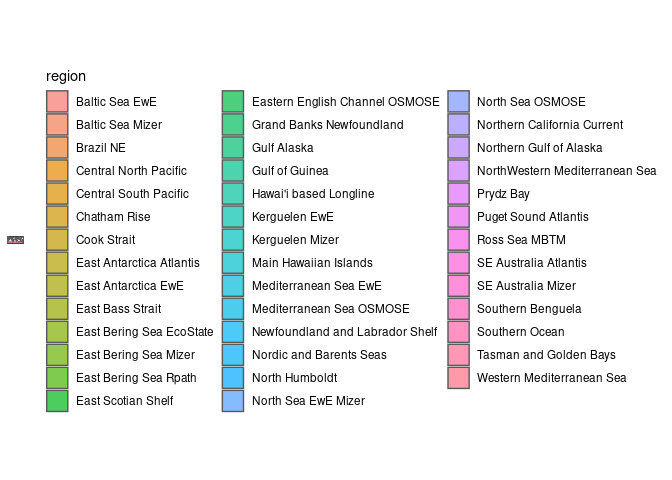
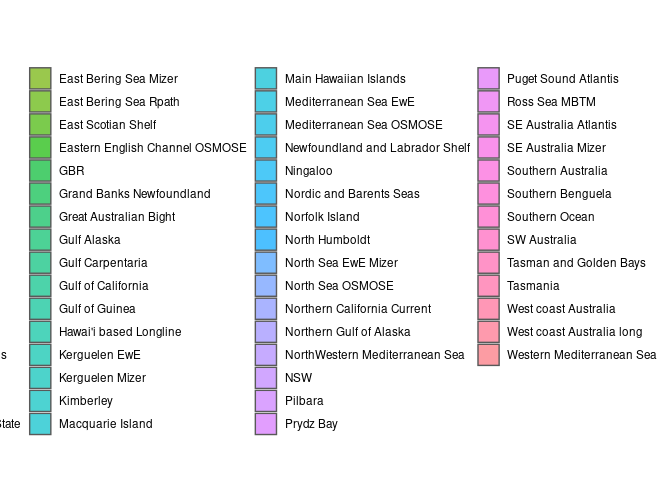
updating masks with new regions

Changed region(s): [[0.0, 0.125, 0.9688, 0.9062]]

diff --git a/scripts/03b_Regional_Models_3DMasks.md b/scripts/03b_Regional_Models_3DMasks.md
@@ -157,71 +157,39 @@ ras <- rast(list.files("/rd/gem/private/shared_resources/FishMIPMasks",
 plot(ras)
 ```
 
-    ## Warning in x@ptr$readStart(): GDAL Message 1: dimension #0 (time) is not a Time
-    ## or Vertical dimension.
+    ## Warning in x@pntr$readStart(): GDAL Message 1: dimension #0 (time) is not a
+    ## Time or Vertical dimension.
 
-    ## Warning in x@ptr$readStart(): GDAL Message 1: dimension #0 (time) is not a Time
-    ## or Vertical dimension.
-    ## Warning in x@ptr$readStart(): GDAL Message 1: dimension #0 (time) is not a Time
-    ## or Vertical dimension.
-    ## Warning in x@ptr$readStart(): GDAL Message 1: dimension #0 (time) is not a Time
-    ## or Vertical dimension.
-    ## Warning in x@ptr$readStart(): GDAL Message 1: dimension #0 (time) is not a Time
-    ## or Vertical dimension.
-    ## Warning in x@ptr$readStart(): GDAL Message 1: dimension #0 (time) is not a Time
-    ## or Vertical dimension.
-    ## Warning in x@ptr$readStart(): GDAL Message 1: dimension #0 (time) is not a Time
-    ## or Vertical dimension.
-    ## Warning in x@ptr$readStart(): GDAL Message 1: dimension #0 (time) is not a Time
-    ## or Vertical dimension.
-    ## Warning in x@ptr$readStart(): GDAL Message 1: dimension #0 (time) is not a Time
-    ## or Vertical dimension.
-    ## Warning in x@ptr$readStart(): GDAL Message 1: dimension #0 (time) is not a Time
-    ## or Vertical dimension.
-    ## Warning in x@ptr$readStart(): GDAL Message 1: dimension #0 (time) is not a Time
-    ## or Vertical dimension.
-    ## Warning in x@ptr$readStart(): GDAL Message 1: dimension #0 (time) is not a Time
-    ## or Vertical dimension.
-    ## Warning in x@ptr$readStart(): GDAL Message 1: dimension #0 (time) is not a Time
-    ## or Vertical dimension.
-    ## Warning in x@ptr$readStart(): GDAL Message 1: dimension #0 (time) is not a Time
-    ## or Vertical dimension.
-    ## Warning in x@ptr$readStart(): GDAL Message 1: dimension #0 (time) is not a Time
-    ## or Vertical dimension.
-    ## Warning in x@ptr$readStart(): GDAL Message 1: dimension #0 (time) is not a Time
-    ## or Vertical dimension.
-    ## Warning in x@ptr$readStart(): GDAL Message 1: dimension #0 (time) is not a Time
-    ## or Vertical dimension.
-    ## Warning in x@ptr$readStart(): GDAL Message 1: dimension #0 (time) is not a Time
-    ## or Vertical dimension.
-    ## Warning in x@ptr$readStart(): GDAL Message 1: dimension #0 (time) is not a Time
-    ## or Vertical dimension.
-    ## Warning in x@ptr$readStart(): GDAL Message 1: dimension #0 (time) is not a Time
-    ## or Vertical dimension.
-    ## Warning in x@ptr$readStart(): GDAL Message 1: dimension #0 (time) is not a Time
-    ## or Vertical dimension.
-    ## Warning in x@ptr$readStart(): GDAL Message 1: dimension #0 (time) is not a Time
-    ## or Vertical dimension.
-    ## Warning in x@ptr$readStart(): GDAL Message 1: dimension #0 (time) is not a Time
-    ## or Vertical dimension.
-    ## Warning in x@ptr$readStart(): GDAL Message 1: dimension #0 (time) is not a Time
-    ## or Vertical dimension.
-    ## Warning in x@ptr$readStart(): GDAL Message 1: dimension #0 (time) is not a Time
-    ## or Vertical dimension.
-    ## Warning in x@ptr$readStart(): GDAL Message 1: dimension #0 (time) is not a Time
-    ## or Vertical dimension.
-    ## Warning in x@ptr$readStart(): GDAL Message 1: dimension #0 (time) is not a Time
-    ## or Vertical dimension.
-    ## Warning in x@ptr$readStart(): GDAL Message 1: dimension #0 (time) is not a Time
-    ## or Vertical dimension.
-    ## Warning in x@ptr$readStart(): GDAL Message 1: dimension #0 (time) is not a Time
-    ## or Vertical dimension.
-    ## Warning in x@ptr$readStart(): GDAL Message 1: dimension #0 (time) is not a Time
-    ## or Vertical dimension.
-    ## Warning in x@ptr$readStart(): GDAL Message 1: dimension #0 (time) is not a Time
-    ## or Vertical dimension.
-    ## Warning in x@ptr$readStart(): GDAL Message 1: dimension #0 (time) is not a Time
-    ## or Vertical dimension.
+    ## Warning in x@pntr$readStart(): GDAL Message 1: dimension #0 (time) is not a
+    ## Time or Vertical dimension.
+    ## Warning in x@pntr$readStart(): GDAL Message 1: dimension #0 (time) is not a
+    ## Time or Vertical dimension.
+    ## Warning in x@pntr$readStart(): GDAL Message 1: dimension #0 (time) is not a
+    ## Time or Vertical dimension.
+    ## Warning in x@pntr$readStart(): GDAL Message 1: dimension #0 (time) is not a
+    ## Time or Vertical dimension.
+    ## Warning in x@pntr$readStart(): GDAL Message 1: dimension #0 (time) is not a
+    ## Time or Vertical dimension.
+    ## Warning in x@pntr$readStart(): GDAL Message 1: dimension #0 (time) is not a
+    ## Time or Vertical dimension.
+    ## Warning in x@pntr$readStart(): GDAL Message 1: dimension #0 (time) is not a
+    ## Time or Vertical dimension.
+    ## Warning in x@pntr$readStart(): GDAL Message 1: dimension #0 (time) is not a
+    ## Time or Vertical dimension.
+    ## Warning in x@pntr$readStart(): GDAL Message 1: dimension #0 (time) is not a
+    ## Time or Vertical dimension.
+    ## Warning in x@pntr$readStart(): GDAL Message 1: dimension #0 (time) is not a
+    ## Time or Vertical dimension.
+    ## Warning in x@pntr$readStart(): GDAL Message 1: dimension #0 (time) is not a
+    ## Time or Vertical dimension.
+    ## Warning in x@pntr$readStart(): GDAL Message 1: dimension #0 (time) is not a
+    ## Time or Vertical dimension.
+    ## Warning in x@pntr$readStart(): GDAL Message 1: dimension #0 (time) is not a
+    ## Time or Vertical dimension.
+    ## Warning in x@pntr$readStart(): GDAL Message 1: dimension #0 (time) is not a
+    ## Time or Vertical dimension.
+    ## Warning in x@pntr$readStart(): GDAL Message 1: dimension #0 (time) is not a
+    ## Time or Vertical dimension.
 
 ![](figures/03b_Regional_Models_3DMasks_files/figure-gfm/unnamed-chunk-6-1.png)<!-- -->
 
@@ -246,20 +214,20 @@ reg_keys |>
 reg_keys
 ```
 
-    ## # A tibble: 41 × 2
-    ##       id region                  
-    ##    <int> <chr>                   
-    ##  1     1 Baltic Sea EwE          
-    ##  2     2 Baltic Sea Mizer        
-    ##  3     3 Brazil NE               
-    ##  4     4 Central North Pacific   
-    ##  5     5 Central South Pacific   
-    ##  6     6 Chatham Rise            
-    ##  7     7 Cook Strait             
-    ##  8     8 East Antarctica Atlantis
-    ##  9     9 East Antarctica EwE     
-    ## 10    10 East Bass Strait        
-    ## # ℹ 31 more rows
+    ## # A tibble: 61 × 2
+    ##       id region                 
+    ##    <int> <chr>                  
+    ##  1     1 Arafura Sea            
+    ##  2     2 Aust east tuna billfish
+    ##  3     3 Baltic Sea EwE         
+    ##  4     4 Baltic Sea Mizer       
+    ##  5     5 Brazil NE              
+    ##  6     6 Central North Pacific  
+    ##  7     7 Central South Pacific  
+    ##  8     8 Chatham Rise           
+    ##  9     9 Christmas Island       
+    ## 10    10 Cocos Keeling          
+    ## # ℹ 51 more rows
 
 ## How to use raster mask
 
@@ -270,17 +238,18 @@ a binary mask to extract the data we need.
 #Load sample ESM data
 sample <- rast(str_subset(sample_rasters, "w-fractions"))
 
-#We will choose mask 9 - East Antarctica (see keys above)
-east_ant <- ras[[9]]
+#We will choose mask 13 - East Antarctica (see keys above)
+east_ant <- ras[[13]]
 #We will replace the ID for the region for the value of 1
 east_ant[!is.na(east_ant)] = 1
 ```
 
-    ## Warning in x@ptr$isnan(FALSE, opt): GDAL Message 1: dimension #0 (time) is not
+    ## Warning in x@pntr$isnan(FALSE, opt): GDAL Message 1: dimension #0 (time) is not
     ## a Time or Vertical dimension.
 
-    ## Warning in x@ptr$mask_raster(mask@ptr, inverse[1], maskvalues, updatevalue[1],
-    ## : GDAL Message 1: dimension #0 (time) is not a Time or Vertical dimension.
+    ## Warning in x@pntr$mask_raster(mask@pntr, inverse[1], maskvalues,
+    ## updatevalue[1], : GDAL Message 1: dimension #0 (time) is not a Time or Vertical
+    ## dimension.
 
 ``` r
 #Multiply data and mask
@@ -343,7 +312,7 @@ mask_df <- read_csv(list.files(out_folder, "w-fractions.*csv",
   filter(region == "East Antarctica EwE")
 ```
 
-    ## Rows: 24199 Columns: 4
+    ## Rows: 27821 Columns: 4
     ## ── Column specification ────────────────────────────────────────────────────────
     ## Delimiter: ","
     ## chr (1): region
@@ -374,7 +343,7 @@ extract_df_all <- read_csv(list.files(out_folder, "w-fractions.*csv",
   left_join(sample_df, by = c("lon", "lat"))
 ```
 
-    ## Rows: 24199 Columns: 4
+    ## Rows: 27821 Columns: 4
     ## ── Column specification ────────────────────────────────────────────────────────
     ## Delimiter: ","
     ## chr (1): region

diff --git a/scripts/03a_Regional_Models_2DMasks.md b/scripts/03a_Regional_Models_2DMasks.md
@@ -13,6 +13,9 @@ Denisse Fierro Arcos
   id="toc-finding-location-of-raster-samples">Finding location of raster
   samples</a>
 - <a href="#plotting-mask" id="toc-plotting-mask">Plotting mask</a>
+  - <a href="#creating-a-simple-2d-mask-for-all-fishmip-regions"
+    id="toc-creating-a-simple-2d-mask-for-all-fishmip-regions">Creating a
+    simple 2D mask for all FishMIP regions</a>
 
 ## Introduction
 
@@ -36,7 +39,7 @@ library(sf)
 library(terra)
 ```
 
-    ## terra 1.7.18
+    ## terra 1.8.15
 
 ``` r
 #Manipulating and plotting data
@@ -44,11 +47,11 @@ library(tidyverse)
 ```
 
     ## ── Attaching core tidyverse packages ──────────────────────── tidyverse 2.0.0 ──
-    ## ✔ dplyr     1.1.1     ✔ readr     2.1.4
+    ## ✔ dplyr     1.1.4     ✔ readr     2.1.4
     ## ✔ forcats   1.0.0     ✔ stringr   1.5.1
-    ## ✔ ggplot2   3.4.4     ✔ tibble    3.2.1
+    ## ✔ ggplot2   3.5.1     ✔ tibble    3.2.1
     ## ✔ lubridate 1.9.2     ✔ tidyr     1.3.0
-    ## ✔ purrr     1.0.1
+    ## ✔ purrr     1.0.2
 
     ## ── Conflicts ────────────────────────────────────────── tidyverse_conflicts() ──
     ## ✖ tidyr::extract() masks terra::extract()
@@ -95,7 +98,7 @@ ne_countries(returnclass = "sf") |>
   theme_bw()
 ```
 
-![](figures/03a_Regional_Models_2DMasks_files/unnamed-chunk-1-1.png)<!-- -->
+![](figures/03a_Regional_Models_2DMasks_files/figure-gfm/unnamed-chunk-1-1.png)<!-- -->
 
 The Southern Ocean regions are plotting correctly, now we can move onto
 creating raster masks. In total, we will create four different masks to
@@ -128,19 +131,17 @@ We will define a function that will go through each sample file and
 create a mask.
 
 ``` r
-shp_to_raster <- function(shp, raster_path, out_folder){
+shp_to_raster <- function(shp, raster_path, field, name_sufix, out_folder){
   #Transforming shapefile to SpatVector class
   shp_terra <- vect(shp)
   #Loading raster
   ras <- rast(raster_path)
   #Rasterise shapefile
-  shp_rast <- rasterize(shp_terra, ras, field = "id", background = NA)
+  shp_rast <- rasterize(shp_terra, ras, field = field, background = NA)
   #Create name for mask to be saved from original raster sample
-  file_out <- str_replace(basename(raster_path), 
-                          "global", "Southern_Ocean_mask")
+  file_out <- str_replace(basename(raster_path), "global_fixed", name_sufix)
   file_out <- file.path(out_folder, file_out)
-  writeCDF(shp_rast, file_out, overwrite = T, varname = "region", 
-           longname = "regions of the SO", missval = NA)
+  writeCDF(shp_rast, file_out, overwrite = T, varname = "region", missval = NA)
 }
 ```
 
@@ -154,7 +155,7 @@ if(!dir.exists(out_folder)){
 
 #Applying function creating masks
 for(ras in sample_rasters){
-  shp_to_raster(southern_ocean, ras, out_folder)
+  shp_to_raster(southern_ocean, ras, "id", "Southern_Ocean_mask", out_folder)
 }
 ```
 
@@ -168,7 +169,7 @@ ras <- rast(list.files("/rd/gem/private/shared_resources/SouthernOceanMasks/",
 plot(ras)
 ```
 
-![](figures/03a_Regional_Models_2DMasks_files/unnamed-chunk-5-1.png)<!-- -->
+![](figures/03a_Regional_Models_2DMasks_files/figure-gfm/unnamed-chunk-5-1.png)<!-- -->
 
 The final mask matches the region, which is exactly what we needed. We
 are now going to save a data frame containing the name of the Southern
@@ -183,3 +184,21 @@ southern_ocean |>
 
 We can now use these masks to extract data from any rasters sharing the
 same grid as the mask.
+
+## Creating a simple 2D mask for all FishMIP regions
+
+``` r
+fishmip_reg <- read_sf(file.path("/rd/gem/private/shared_resources", 
+                                 "FishMIP_regional_models", 
+                                 "FishMIP_regional_models.shp"))
+
+out_folder <- file.path("/rd/gem/private/shared_resources/FishMIPMasks",
+                        "merged_regional_fishmip")
+if(!dir.exists(out_folder)){
+  dir.create(out_folder, recursive = T)}
+
+#Applying function creating masks
+for(ras in sample_rasters){
+  shp_to_raster(fishmip_reg, ras, 1, "fishMIP_regional_merged", out_folder)
+}
+```
